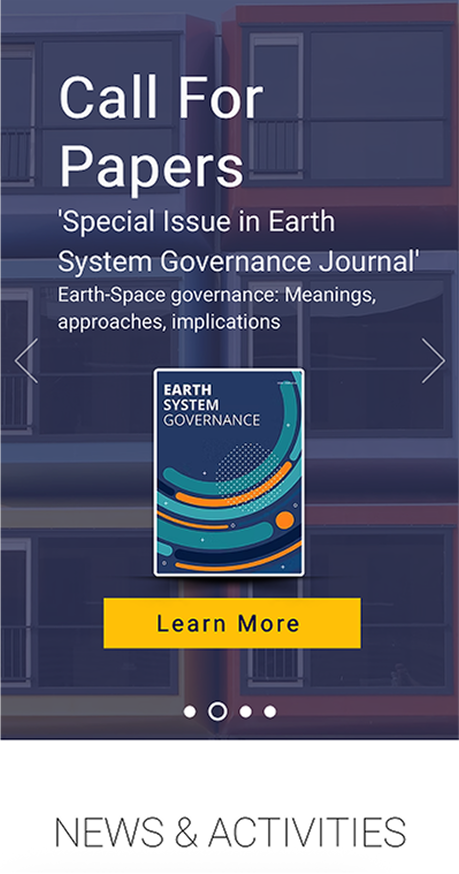
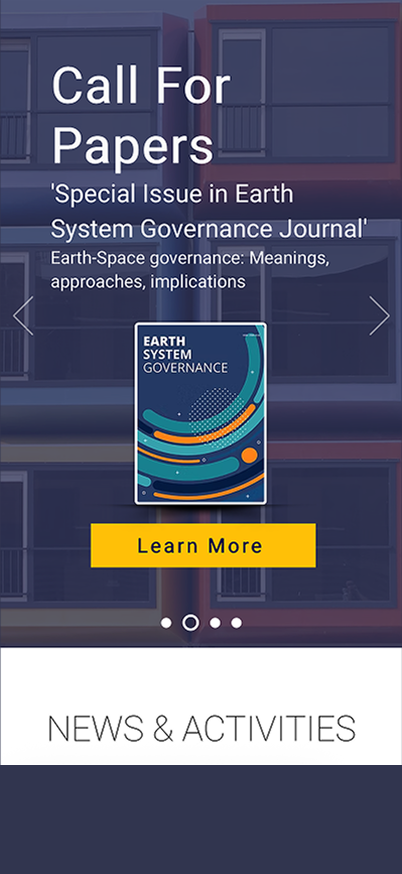
Update PLANETSTEWARDS cover, team, Solution figure and page entry
New desktop cover and events page screenshot, a re-captured Call for Papers
screenshot, the team line without "With", and the page entry's alt and
caption.

diff --git a/portfolio-content/case-studies/planetstewards/index.md b/portfolio-content/case-studies/planetstewards/index.md
@@ -3,14 +3,14 @@ title: "PLANETSTEWARDS: identity and website design"
 summary: "A visual identity and website for an academic space-governance project, redesigned to put human activity in orbit, on the Moon and on Mars at the centre of the story while staying credible to academic partners."
 role: "Product Designer"
 client: "Utrecht University"
-team: "With September Khu, Project Coordinator"
+team: "September Khu, Project Coordinator"
 timeline: "Apr 2024 – Jul 2024"
 platform: "Wix"
 tools: ["Wix", "Adobe Illustrator", "CapCut"]
 live_url: "https://www.planetstewards.eu/"
 order: 2
 accent: "#003399"
-cover: ./images/page-hero-phone.png
+cover: ./images/hero-case-study.png
 cover_alt: "PLANETSTEWARDS homepage on mobile showing the project's mission statement"
 hero:
   frame: browser
@@ -59,7 +59,7 @@ The shipped navigation expanded these pages and added Publications, News and an 
 ## The Solution
 <!-- layout: one headline, body below, desktop view next to body and a row of phones under -->
 With September Khu, I shaped the site's visual identity and layout: moodboards and logo concepts, a blue-and-yellow palette with Roboto, and a structure built around the project, team, publications and symposium. I worked on visual hierarchy, image placement and icon styling, and produced the space-debris motion piece.
-![PLANETSTEWARDS homepage hero on desktop](./images/home-page-hero.png)
+![PLANETSTEWARDS homepage hero on desktop](./images/events-page.png)
 *Homepage hero.*
 ![2024 Earth-Space Symposium event page](./images/page-event-2024-symposium.png)
 *2024 Earth-Space Symposium.*
@@ -109,8 +109,8 @@ I designed three content templates: publication entry, news entry and event page
 *Publication entries.*
 ![News and activities page](./images/page-news-activities.png)
 *News entries.*
-![Blog post with SEO title and description](./images/page-news-blog.png)
-*Event page*
+![Embassy of The Moon page entry](./images/page-news-blog.png)
+*Page entry.*
 ## Results
 <!-- layout: stat cards, first card largest -->
 Jun 2024 – Jun 2025 · Wix Analytics
